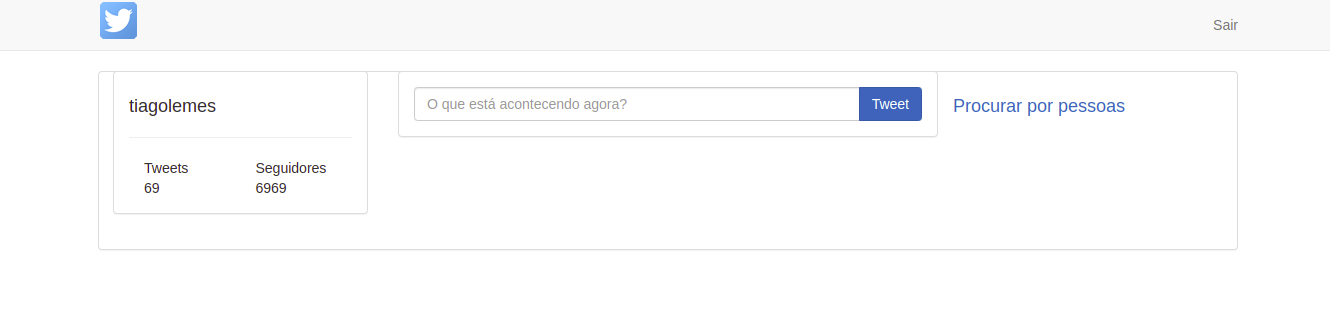
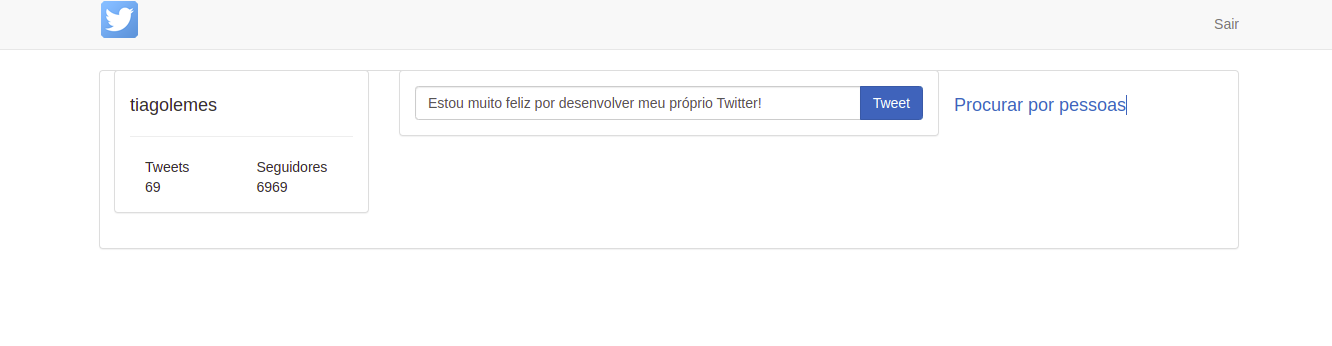
222. Incluindo post de 140 caracteres parte 1

diff --git a/js/home.js b/js/home.js
@@ -1,0 +1,13 @@
+$(document).ready( function() {
+
+	// clique no botão de postar tweet
+	$('#btn-tweet').click( function() {
+
+		// impede de postar tweet em branco
+		if ($('#texto-tweet').val() != '') {
+			alert($('#texto-tweet').val())			
+		}
+
+	})
+
+})

diff --git a/home.php b/home.php
@@ -21,6 +21,8 @@
 
 		<!-- bootstrap - link cdn -->
 		<link rel="stylesheet" href="https://maxcdn.bootstrapcdn.com/bootstrap/3.3.6/css/bootstrap.min.css">
+
+		<script src="js/home.js"></script>
 	
 	</head>
 
@@ -84,9 +86,9 @@
 	    			<div class="panel-body">
 	    				
 	    				<div class="input-group">
-	    					<input type="text" name="input" id="input" class="form-control" placeholder="O que está acontecendo agora?" maxlength="140">
+	    					<input type="text" name="conteudo" id="texto-tweet" class="form-control" placeholder="O que está acontecendo agora?" maxlength="140">
 	    					<span class="input-group-btn">
-	    						<button class="btn btn-primary" type="button">Tweet</button>
+	    						<button class="btn btn-primary" id="btn-tweet" type="button">Tweet</button>
 	    					</span>
 	    				</div>
 
